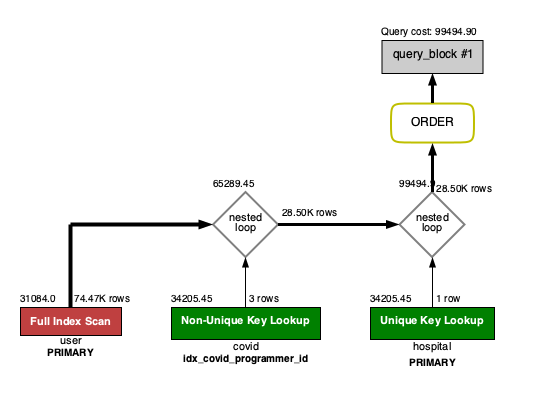
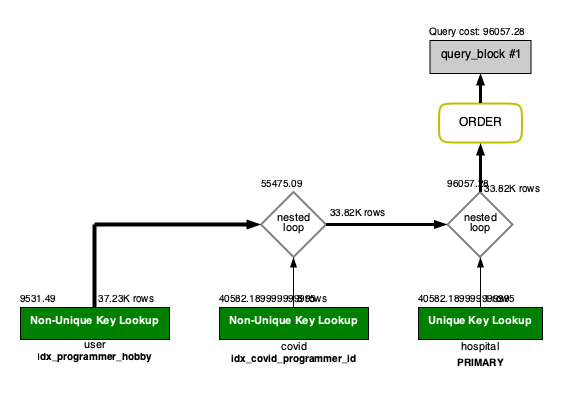
refactor : 쿼리 조건 수정

diff --git a/README.md b/README.md
@@ -172,8 +172,9 @@ npm run dev
        ON user.id = covid.programmer_id
      INNER JOIN  hospital
        ON hospital.id = covid.hospital_id
-   WHERE (user.hobby = 'yes' AND user.student IN ('Yes, part-time', 'Yes, full-time'))
-     OR user.years_coding_prof = '0-2 years'
+   WHERE user.hobby = 'yes' 
+	 AND (user.student IN ('Yes, part-time', 'Yes, full-time')
+          OR user.years_coding_prof = '0-2 years')
    ORDER BY user.id;
    ```
   - PK 적용 전, 인덱스 적용 전
@@ -184,7 +185,9 @@ npm run dev
   - PK 적용, 인덱스 적용
     - ``alter table `hospital` add primary key (id);``
     - ``CREATE INDEX `idx_covid_programmer_id` ON `covid` (programmer_id);``
-  > 실행 결과: 35261 row(s) returned	0.026 sec / 5.005 sec
+    - ``CREATE INDEX `idx_covid_programmer_hobby` ON `covid` (hobby);``
+  > 실행 결과: 31448 row(s) returned	0.037 sec / 4.492 sec
+
 
   ![student-junior-hospital-index](./query/student_or_junior_hospital-index.png)
 
